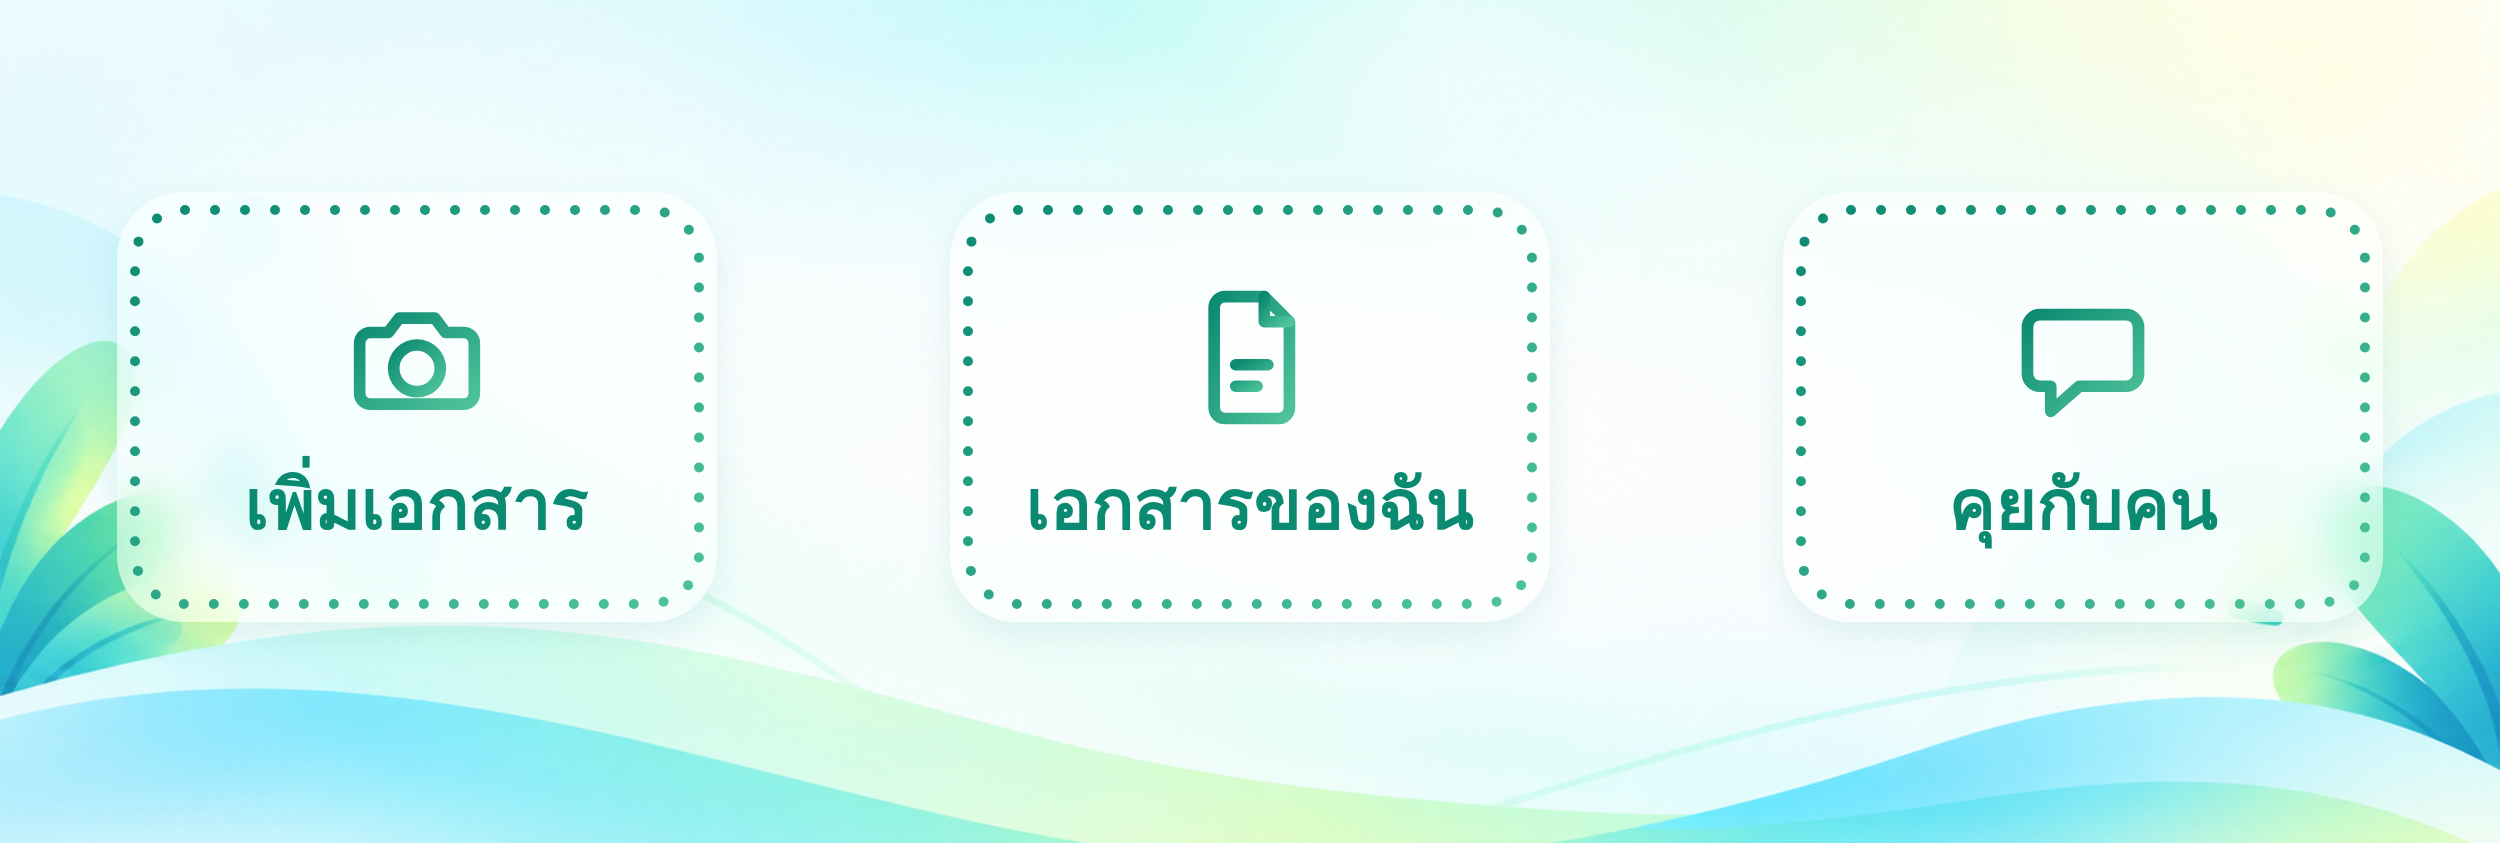
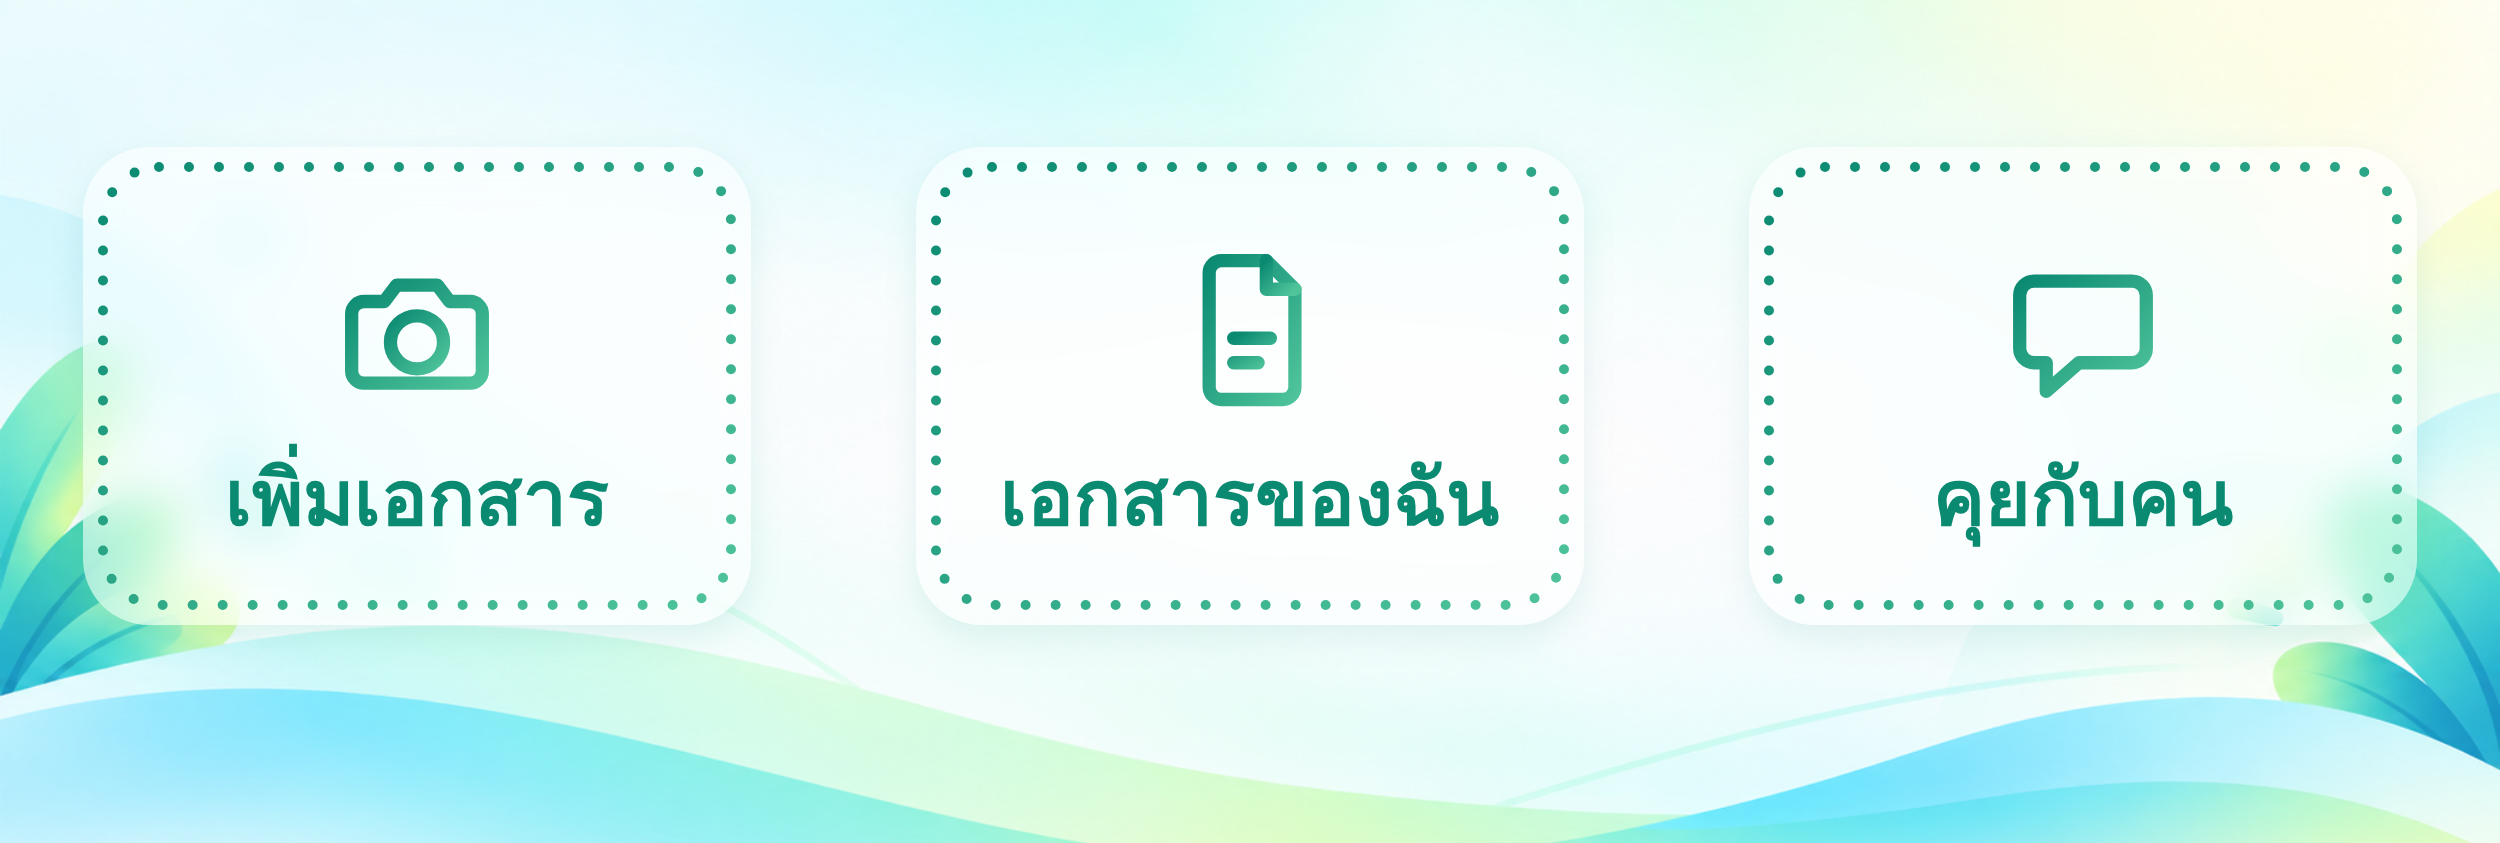
rich menu: การ์ด ไอคอน และตัวอักษรใหญ่ขึ้น ขยับขึ้นจากคลื่น
การ์ด 600x430 เป็น 668x478 · ไอคอน 172 เป็น 196px · ตัวอักษร 70 เป็น 78px
ดันขึ้นอีก 42px ให้ห่างจากคลื่นด้านล่างมากขึ้น

Claude-Session: https://claude.ai/code/session_01M7tvfzcRoyzy7X7Yh9MoMw

diff --git a/tools/brand/richmenu.html b/tools/brand/richmenu.html
@@ -20,7 +20,7 @@
     background: url('richmenu_background.png') center top / cover no-repeat, #eaf7f4;
   }
 
-  .cell { display: flex; align-items: center; justify-content: center; padding-bottom: 30px; }
+  .cell { display: flex; align-items: center; justify-content: center; padding-bottom: 72px; }
 
   /*
     การ์ดขาวเล็กกว่าพื้นที่กดจริง โดยตั้งใจ
@@ -29,9 +29,9 @@
   */
   .card {
     position: relative;
-    width: 600px; height: 430px;
+    width: 668px; height: 478px;
     display: flex; flex-direction: column;
-    align-items: center; justify-content: center; gap: 18px;
+    align-items: center; justify-content: center; gap: 22px;
     /*
       กระจกฝ้า ไม่ใช่ขาวทึบ — ยังเห็นใบไม้กับคลื่นข้างหลังจาง ๆ
       blur ทำให้ลายพื้นหลังไม่มากวนตัวหนังสือ แต่ยังรู้ว่ามีอะไรอยู่ข้างหลัง
@@ -49,8 +49,8 @@
   */
   .frame { position: absolute; inset: 0; }
 
-  .ico { width: 172px; height: 172px; }
-  .label { font-size: 70px; font-weight: 700; line-height: 1.25; color: var(--teal); }
+  .ico { width: 196px; height: 196px; }
+  .label { font-size: 78px; font-weight: 700; line-height: 1.25; color: var(--teal); }
 </style>
 
 <svg width="0" height="0" style="position:absolute">
@@ -63,8 +63,8 @@
 
 <div class="cell">
   <div class="card">
-    <svg class="frame" viewBox="0 0 600 430">
-      <rect x="18" y="18" width="564" height="394" rx="50"
+    <svg class="frame" viewBox="0 0 668 478">
+      <rect x="20" y="20" width="628" height="438" rx="56"
             fill="none" stroke="url(#gd)" stroke-width="10"
             stroke-linecap="round" stroke-dasharray="0 30"/>
     </svg>
@@ -79,8 +79,8 @@
 
 <div class="cell">
   <div class="card">
-    <svg class="frame" viewBox="0 0 600 430">
-      <rect x="18" y="18" width="564" height="394" rx="50"
+    <svg class="frame" viewBox="0 0 668 478">
+      <rect x="20" y="20" width="628" height="438" rx="56"
             fill="none" stroke="url(#gd)" stroke-width="10"
             stroke-linecap="round" stroke-dasharray="0 30"/>
     </svg>
@@ -96,8 +96,8 @@
 
 <div class="cell">
   <div class="card">
-    <svg class="frame" viewBox="0 0 600 430">
-      <rect x="18" y="18" width="564" height="394" rx="50"
+    <svg class="frame" viewBox="0 0 668 478">
+      <rect x="20" y="20" width="628" height="438" rx="56"
             fill="none" stroke="url(#gd)" stroke-width="10"
             stroke-linecap="round" stroke-dasharray="0 30"/>
     </svg>
